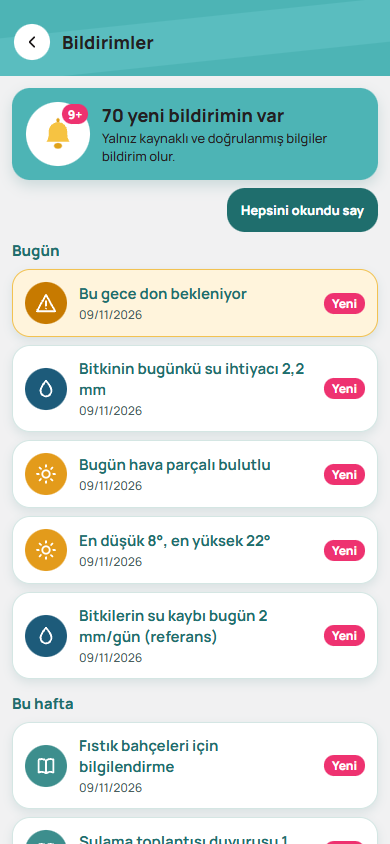
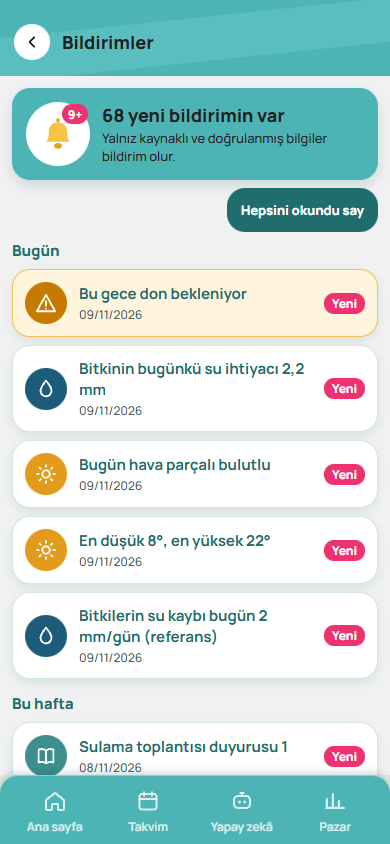
Alt gezinme cubugu, kabartmali ust dugmeler, baska arazinin haberi acilir, ayni baslikli haber tek kart

Changed region(s): [[0.0, 0.8626, 1.0, 1.0], [0.2462, 0.1232, 0.7077, 0.154]]

diff --git a/apps/mobile/src/components/AltCubuk.tsx b/apps/mobile/src/components/AltCubuk.tsx
@@ -1,0 +1,138 @@
+import { usePathname, useRouter } from 'expo-router';
+import { useEffect, useState } from 'react';
+import { Keyboard, Platform, Pressable, StyleSheet, Text, View } from 'react-native';
+import { useSafeAreaInsets } from 'react-native-safe-area-context';
+import Svg, { Circle, Path, Rect } from 'react-native-svg';
+import { fontFamily, homeColors } from '@tarim/ui';
+import { ALT_SEKMELER, altCubukGorunur, type Anahtar } from './altCubukYol';
+
+function Ikon({ k, renk }: { k: Anahtar; renk: string }) {
+  const p = { width: 24, height: 24, viewBox: '0 0 24 24' } as const;
+  switch (k) {
+    case 'ana':
+      return (
+        <Svg {...p}>
+          <Path
+            d="M3 11l9-7 9 7v9a1 1 0 0 1-1 1h-5v-6H9v6H4a1 1 0 0 1-1-1z"
+            fill="none"
+            stroke={renk}
+            strokeWidth={2}
+            strokeLinejoin="round"
+          />
+        </Svg>
+      );
+    case 'takvim':
+      return (
+        <Svg {...p}>
+          <Rect
+            x={3.5}
+            y={5}
+            width={17}
+            height={15.5}
+            rx={2.5}
+            fill="none"
+            stroke={renk}
+            strokeWidth={2}
+          />
+          <Path d="M3.5 10h17M8 3v4M16 3v4" stroke={renk} strokeWidth={2} strokeLinecap="round" />
+        </Svg>
+      );
+    case 'yz':
+      return (
+        <Svg {...p}>
+          <Rect
+            x={4}
+            y={7}
+            width={16}
+            height={12}
+            rx={4}
+            fill="none"
+            stroke={renk}
+            strokeWidth={2}
+          />
+          <Circle cx={9.5} cy={13} r={1.4} fill={renk} />
+          <Circle cx={14.5} cy={13} r={1.4} fill={renk} />
+          <Path d="M12 7V4M10.5 4h3" stroke={renk} strokeWidth={2} strokeLinecap="round" />
+        </Svg>
+      );
+    case 'pazar':
+      return (
+        <Svg {...p}>
+          <Path
+            d="M4 19V10M10 19V5M16 19v-7M21 19H3"
+            stroke={renk}
+            strokeWidth={2.2}
+            strokeLinecap="round"
+          />
+        </Svg>
+      );
+  }
+}
+
+export function AltCubuk() {
+  const yol = usePathname();
+  const router = useRouter();
+  const insets = useSafeAreaInsets();
+  const [klavye, setKlavye] = useState(false);
+  useEffect(() => {
+    if (Platform.OS === 'web') return;
+    const a = Keyboard.addListener('keyboardDidShow', () => setKlavye(true));
+    const b = Keyboard.addListener('keyboardDidHide', () => setKlavye(false));
+    return () => {
+      a.remove();
+      b.remove();
+    };
+  }, []);
+  if (klavye || !altCubukGorunur(yol)) return null;
+  return (
+    <View testID="alt-cubuk" style={[styles.cubuk, { paddingBottom: Math.max(insets.bottom, 6) }]}>
+      {ALT_SEKMELER.map((s) => {
+        const acik = s.eslesen.test(yol);
+        const renk = acik ? '#FFFFFF' : 'rgba(255,255,255,0.78)';
+        return (
+          <Pressable
+            key={s.key}
+            testID={`alt-${s.key}`}
+            accessibilityRole="button"
+            accessibilityLabel={s.ad}
+            accessibilityState={{ selected: acik }}
+            onPress={() => {
+              if (!acik) router.navigate(s.rota as never);
+            }}
+            style={styles.oge}
+          >
+            <View style={[styles.hap, acik && styles.hapAcik]}>
+              <Ikon k={s.key} renk={renk} />
+            </View>
+            <Text style={[styles.yazi, { color: renk }, acik && styles.yaziAcik]} numberOfLines={1}>
+              {s.ad}
+            </Text>
+          </Pressable>
+        );
+      })}
+    </View>
+  );
+}
+
+const styles = StyleSheet.create({
+  cubuk: {
+    flexDirection: 'row',
+    backgroundColor: homeColors.band,
+    borderTopLeftRadius: 18,
+    borderTopRightRadius: 18,
+    paddingTop: 6,
+    paddingHorizontal: 8,
+    borderTopWidth: 1,
+    borderColor: 'rgba(255,255,255,0.35)',
+    shadowColor: '#0B3B3C',
+    shadowOffset: { width: 0, height: -3 },
+    shadowOpacity: 0.18,
+    shadowRadius: 8,
+    elevation: 12,
+  },
+  oge: { flex: 1, minHeight: 56, alignItems: 'center', justifyContent: 'center', gap: 2 },
+  hap: { width: 52, height: 30, borderRadius: 15, alignItems: 'center', justifyContent: 'center' },
+  hapAcik: { backgroundColor: 'rgba(255,255,255,0.26)' },
+  yazi: { fontFamily: fontFamily.semibold, fontSize: 12 },
+  yaziAcik: { fontFamily: fontFamily.extrabold },
+});

diff --git a/apps/mobile/src/home/load.ts b/apps/mobile/src/home/load.ts
@@ -8,6 +8,7 @@ import type {
   SupportMatchDto,
   TodayDto,
 } from '../api/client';
+import { normalizeTr } from '@tarim/agro-core';
 import type { KV } from '../offline/kv';
 import { announcementsKey, loadAnnouncements } from '../today/announcements';
 import type { DigerArazi } from './model';
@@ -101,14 +102,16 @@ export async function loadHome(
       return { arazi: { ad: f.name, today, calendar: cal } satisfies DigerArazi, anns };
     }),
   );
-  const gorulen = new Set(announcements.map((a) => a.id));
-  const tumDuyurular = [...announcements];
-  for (const d of diger)
-    for (const a of d.anns)
-      if (!gorulen.has(a.id)) {
-        gorulen.add(a.id);
-        tumDuyurular.push(a);
-      }
+  // Aynı başlıklı haber farklı illerin müdürlüklerinden ayrı kayıt olarak gelebilir (ör. Bir Sürü Olsun): tek kart.
+  const gorulen = new Set<string>();
+  const tumDuyurular: AnnouncementDto[] = [];
+  for (const a of [...announcements, ...diger.flatMap((d) => d.anns)]) {
+    const baslik = normalizeTr(a.title);
+    if (gorulen.has(a.id) || gorulen.has(baslik)) continue;
+    gorulen.add(a.id);
+    gorulen.add(baslik);
+    tumDuyurular.push(a);
+  }
   tumDuyurular.sort((a, b) => (a.publishedAt < b.publishedAt ? 1 : -1));
   return {
     base,

diff --git a/apps/mobile/src/components/HomeIcons.tsx b/apps/mobile/src/components/HomeIcons.tsx
@@ -202,7 +202,7 @@ export function HomeIconButton({
           <Image
             testID={`ikon-gorsel-${item.key}`}
             source={IMAGE_FILES[item.file] as number}
-            style={{ width: size, height: size, borderRadius: size / 2 }}
+            style={{ width: size, height: size, margin: -1.5, borderRadius: size / 2, opacity: 0.9 }}
           />
         ) : (
           <Glyph k={item.key} size={size * 0.72} />
@@ -222,8 +222,20 @@ const TOUCH = 44;
 
 const styles = StyleSheet.create({
   touch: { width: TOUCH, height: TOUCH, alignItems: 'center', justifyContent: 'center' },
-  circle: { backgroundColor: '#FFFFFF', alignItems: 'center', justifyContent: 'center' },
-  clear: { backgroundColor: 'transparent' },
+  // Kabartmalı ama sırıtmayan düğme: saf beyaz yerine yumuşak nane tonu, ince ışık kenarı, kısa gölge.
+  circle: {
+    backgroundColor: '#E9F4F1',
+    alignItems: 'center',
+    justifyContent: 'center',
+    borderWidth: 1.5,
+    borderColor: 'rgba(255,255,255,0.7)',
+    shadowColor: '#0B3B3C',
+    shadowOffset: { width: 0, height: 3 },
+    shadowOpacity: 0.28,
+    shadowRadius: 4,
+    elevation: 5,
+  },
+  clear: { backgroundColor: '#E9F4F1' },
   badge: {
     position: 'absolute',
     top: 1,

diff --git a/apps/mobile/app/_layout.tsx b/apps/mobile/app/_layout.tsx
@@ -10,6 +10,7 @@ import { StatusBar } from 'expo-status-bar';
 import { useEffect } from 'react';
 import { Platform, useWindowDimensions, View } from 'react-native';
 import { I18nextProvider } from 'react-i18next';
+import { AltCubuk } from '../src/components/AltCubuk';
 import { i18n } from '../src/i18n';
 import { onPushTap } from '../src/push';
 import { queue, useSessionKind, useToken } from '../src/session';
@@ -90,11 +91,14 @@ export default function RootLayout() {
   const { textSize } = useSettings();
   const { width } = useWindowDimensions();
   const wide = (useSegments()[0] as string | undefined) === 'yetkili';
+  const token = useToken();
+  const kind = useSessionKind();
   return (
     <I18nextProvider i18n={i18n}>
       <StatusBar style="dark" />
       <View key={textSize} style={webFrame(width, wide)}>
         <Stack screenOptions={{ headerShown: false }} />
+        {token && kind !== 'yetkili' ? <AltCubuk /> : null}
         {/* Soğuk açılışta yeni sürüm varsa "Güncelle" ekranı örter; güncellenmeden girilmez. */}
         <UpdateGate api={expoUpdates} installed={installedVersion()} />
       </View>

diff --git a/apps/mobile/app/haber.tsx b/apps/mobile/app/haber.tsx
@@ -37,9 +37,17 @@ export default function NewsScreen() {
         return c.kartlar[n] ? { kind: 'ornek', c, i: n } : null;
       }
       if (!fieldId) return null;
-      const list = await loadAnnouncements(api, kv, fieldId);
-      const a = list.find((x) => x.id === id && gosterilir(x));
-      return a ? { kind: 'duyuru', a } : null;
+      // Haber başka bir arazinin listesinden gelmiş olabilir (ana sayfa tüm arazileri toplar): önce o arazi, sonra diğerleri.
+      const diger = await api
+        .fields()
+        .then((r) => r.map((f) => f.id).filter((x) => x !== fieldId))
+        .catch((): string[] => []);
+      for (const fid of [fieldId, ...diger]) {
+        const list = await loadAnnouncements(api, kv, fid);
+        const a = list.find((x) => x.id === id && gosterilir(x));
+        if (a) return { kind: 'duyuru', a };
+      }
+      return null;
     };
     void withDeadline(work())
       .then(setShown)

diff --git a/apps/mobile/src/components/AltCubuk.test.ts b/apps/mobile/src/components/AltCubuk.test.ts
@@ -1,0 +1,16 @@
+import { describe, expect, it } from 'vitest';
+import { ALT_SEKMELER, altCubukGorunur } from './altCubukYol';
+
+describe('alt çubuk', () => {
+  it('ana sayfalarda görünür; sohbet, form ve giriş ekranlarında görünmez', () => {
+    for (const y of ['/', '/index', '/takvim', '/pazar', '/hava', '/haber', '/bildirimler'])
+      expect(altCubukGorunur(y), y).toBe(true);
+    for (const y of ['/yapay-zeka', '/giris', '/ayarlar', '/arazi-ekle', '/yetkili', '/sulama'])
+      expect(altCubukGorunur(y), y).toBe(false);
+  });
+  it('dört düğme: ana sayfa, takvim, yapay zekâ, pazar', () => {
+    expect(ALT_SEKMELER.map((s) => s.rota)).toEqual(['/', '/takvim', '/yapay-zeka', '/pazar']);
+    expect(ALT_SEKMELER.find((s) => s.eslesen.test('/takvim'))?.key).toBe('takvim');
+    expect(ALT_SEKMELER.find((s) => s.eslesen.test('/'))?.key).toBe('ana');
+  });
+});

diff --git a/apps/mobile/src/components/altCubukYol.ts b/apps/mobile/src/components/altCubukYol.ts
@@ -1,0 +1,17 @@
+export type Anahtar = 'ana' | 'takvim' | 'yz' | 'pazar';
+
+/** Alt gezinme çubuğu: üst bantla aynı renk ve dil. Yalnız ana sayfalarda görünür (form ve sohbet ekranlarında yok). */
+export const ALT_SEKMELER: { key: Anahtar; ad: string; rota: string; eslesen: RegExp }[] = [
+  { key: 'ana', ad: 'Ana sayfa', rota: '/', eslesen: /^\/(index)?$/ },
+  { key: 'takvim', ad: 'Takvim', rota: '/takvim', eslesen: /^\/takvim/ },
+  { key: 'yz', ad: 'Yapay zekâ', rota: '/yapay-zeka', eslesen: /^\/yapay-zeka/ },
+  { key: 'pazar', ad: 'Pazar', rota: '/pazar', eslesen: /^\/pazar/ },
+];
+
+/** Çubuğun görüneceği sayfalar. */
+const GORUNUR =
+  /^\/(index|takvim|pazar|hava|tarlalarim|bildirimler|haber|arazi-islemleri|soru-sor)?$/;
+
+export function altCubukGorunur(yol: string): boolean {
+  return GORUNUR.test(yol);
+}
